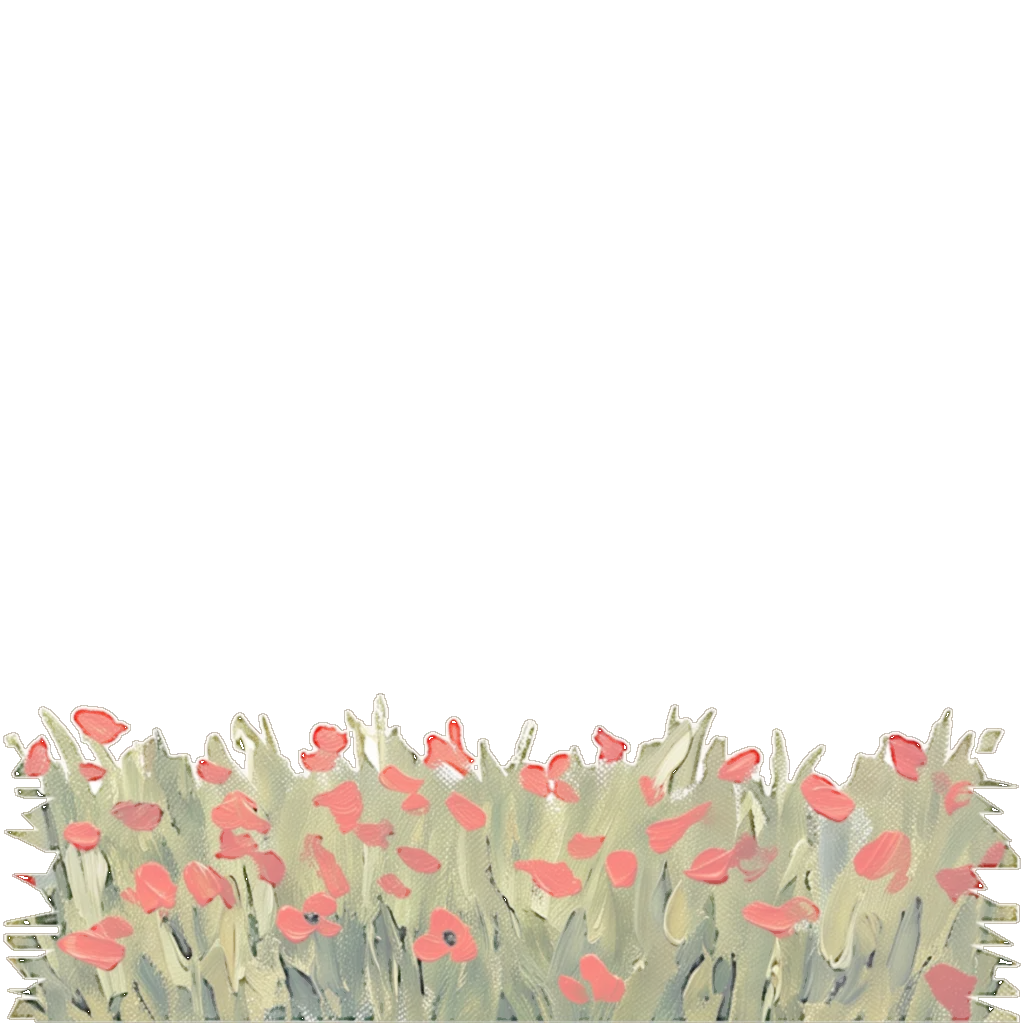
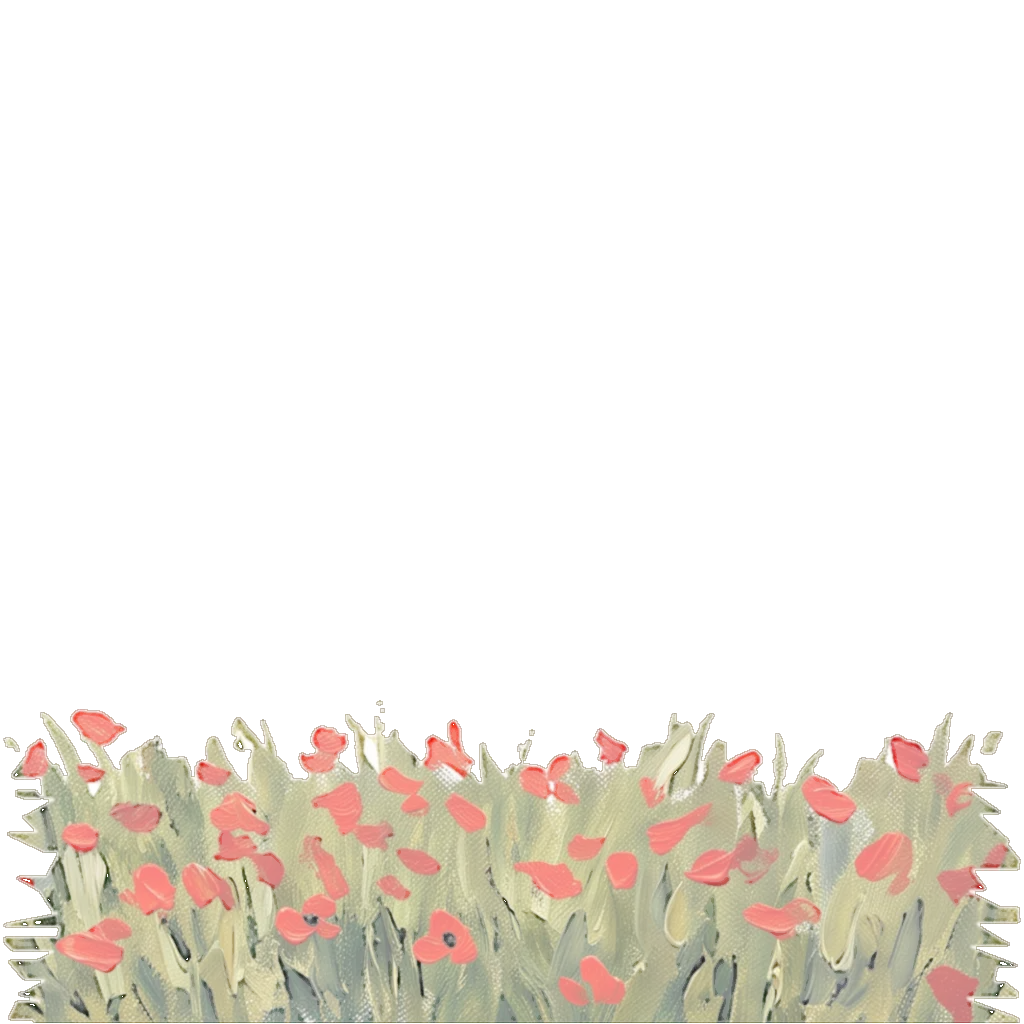
Trim the pale painted rim from willows, poppy pieces and pond plants
Claude-Session: https://claude.ai/code/session_01L1gWQ5CuQAPXZzGU2McvRg

diff --git a/lib/pieces.ts b/lib/pieces.ts
@@ -20,18 +20,18 @@ export const PIECES: Record<string, [number, number, Box]> = {
   "h-easel": [0.533, 0.983, [0.228, 0.01, 0.772, 1.0]],
   "h-michel": [0.633, 0.983, [0.179, 0.011, 0.82, 1.0]],
   "h-table": [0.738, 0.984, [0.126, 0.01, 0.874, 1.0]],
-  "p-boy": [0.989, 0.895, [0.003, 0.102, 0.997, 1.0]],
-  "p-camille": [0.412, 0.983, [0.289, 0.01, 0.711, 1.0]],
+  "p-boy": [0.988, 0.896, [0.003, 0.1, 0.996, 1.0]],
+  "p-camille": [0.411, 0.983, [0.289, 0.011, 0.709, 1.0]],
   "p-house": [0.98, 0.506, [0.006, 0.488, 0.994, 1.0]],
-  "p-pair": [0.932, 0.974, [0.029, 0.018, 0.971, 1.0]],
-  "p-row1": [0.99, 0.32, [0.003, 0.677, 0.997, 1.0]],
-  "p-row2": [0.99, 0.29, [0.003, 0.707, 0.997, 1.0]],
-  "p-tree": [0.457, 0.986, [0.268, 0.009, 0.731, 1.0]],
-  "w-boat": [0.982, 0.448, [0.004, 0.546, 0.996, 1.0]],
-  "w-easels": [0.984, 0.641, [0.003, 0.354, 0.997, 1.0]],
-  "w-irises": [0.987, 0.757, [0.004, 0.24, 0.996, 1.0]],
-  "w-papa": [0.696, 0.983, [0.147, 0.01, 0.853, 1.0]],
-  "w-reeds": [0.984, 0.786, [0.005, 0.209, 0.995, 1.0]],
-  "w-willow1": [0.854, 0.987, [0.07, 0.009, 0.93, 1.0]],
-  "w-willow2": [0.835, 0.983, [0.078, 0.012, 0.92, 1.0]],
+  "p-pair": [0.927, 0.974, [0.031, 0.018, 0.969, 1.0]],
+  "p-row1": [0.99, 0.314, [0.003, 0.684, 0.997, 1.0]],
+  "p-row2": [0.99, 0.286, [0.003, 0.711, 0.997, 1.0]],
+  "p-tree": [0.457, 0.988, [0.268, 0.009, 0.731, 1.0]],
+  "w-boat": [0.982, 0.441, [0.004, 0.552, 0.995, 1.0]],
+  "w-easels": [0.984, 0.637, [0.004, 0.357, 0.997, 1.0]],
+  "w-irises": [0.987, 0.754, [0.004, 0.243, 0.996, 1.0]],
+  "w-papa": [0.703, 0.983, [0.143, 0.01, 0.856, 1.0]],
+  "w-reeds": [0.984, 0.777, [0.005, 0.22, 0.995, 1.0]],
+  "w-willow1": [0.852, 0.987, [0.072, 0.009, 0.928, 1.0]],
+  "w-willow2": [0.832, 0.983, [0.08, 0.012, 0.918, 1.0]],
 };
